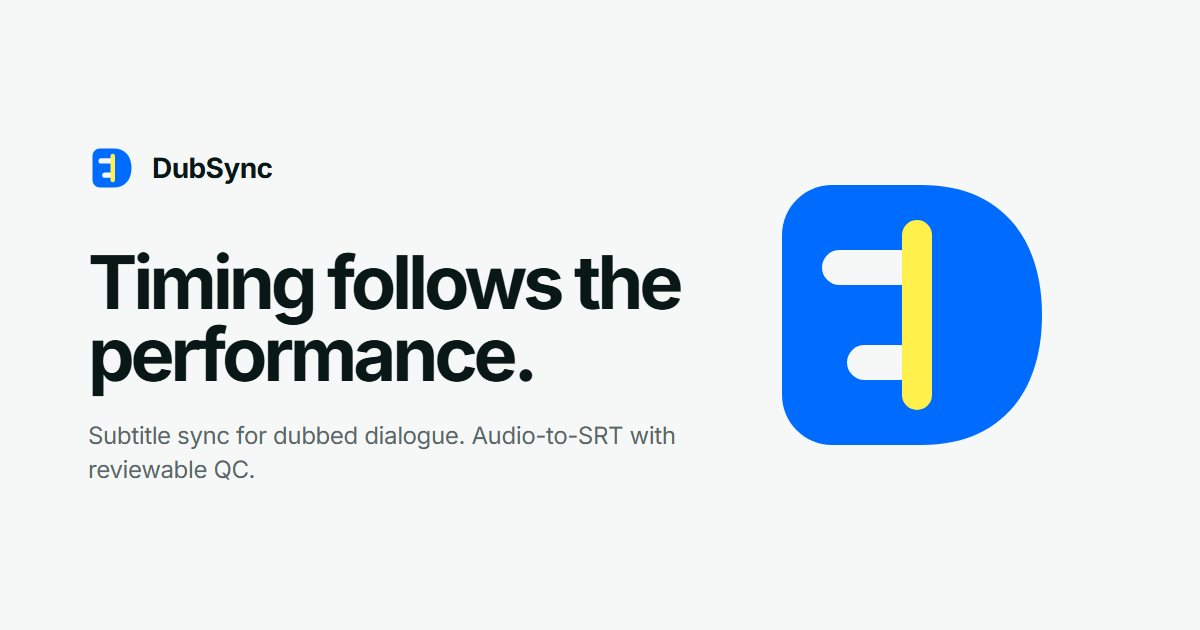
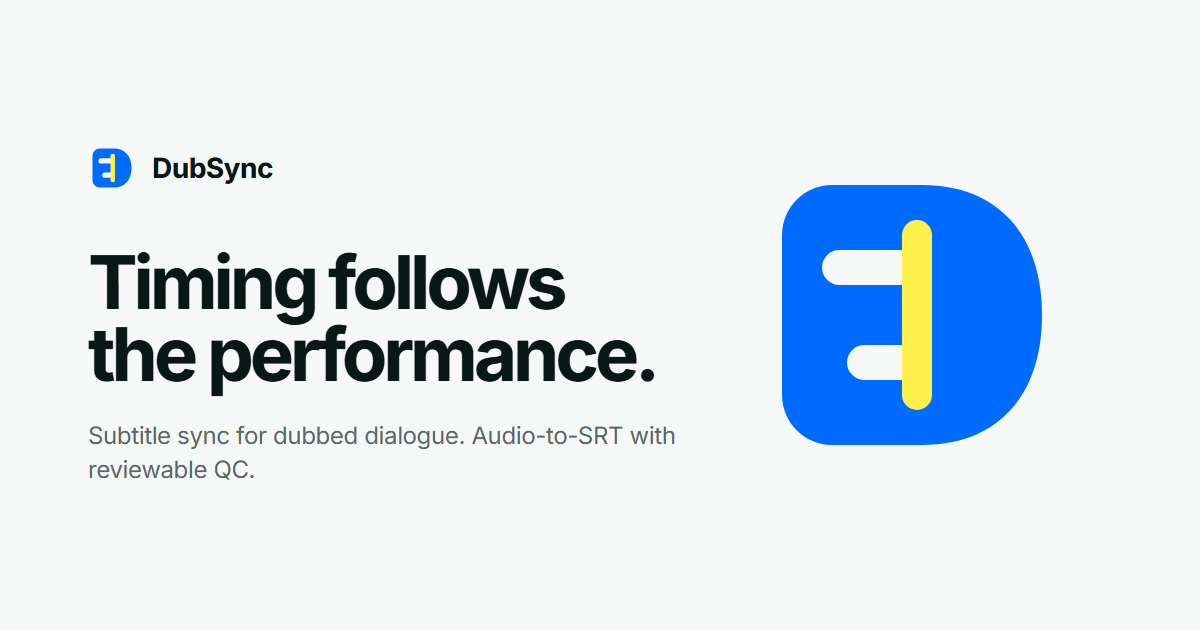
fix: harden crawler and installed brand surfaces

Changed region(s): [[0.0617, 0.3921, 0.5858, 0.6333], [0.1542, 0.2413, 0.2158, 0.3016]]

diff --git a/web/src/seo.ts b/web/src/seo.ts
@@ -1,5 +1,6 @@
 const SITE_ORIGIN = 'https://dubsync.onrender.com'
 const SOCIAL_IMAGE = `${SITE_ORIGIN}/brand/dubsync-social.png`
+const SOCIAL_IMAGE_ALT = 'DubSync. Timing follows the performance.'
 
 interface RouteMetadata {
   title: string
@@ -70,4 +71,6 @@ export function applyRouteMetadata(path: string) {
   setMeta('meta[name="twitter:title"]', { name: 'twitter:title', content: metadata.title })
   setMeta('meta[name="twitter:description"]', { name: 'twitter:description', content: metadata.description })
   setMeta('meta[name="twitter:image"]', { name: 'twitter:image', content: SOCIAL_IMAGE })
+  setMeta('meta[name="twitter:image:alt"]', { name: 'twitter:image:alt', content: SOCIAL_IMAGE_ALT })
+  if (path !== '/') document.head.querySelector('script[data-home-schema]')?.remove()
 }

diff --git a/web/index.html b/web/index.html
@@ -25,6 +25,7 @@
     <meta name="twitter:title" content="Subtitle Sync &amp; Audio-to-SRT for Dubbing | DubSync" />
     <meta name="twitter:description" content="Sync an existing SRT to dubbed dialogue audio, or generate a speaker-aware SRT from audio. Download review-ready subtitles with QC reports." />
     <meta name="twitter:image" content="https://dubsync.onrender.com/brand/dubsync-social.png" />
+    <meta name="twitter:image:alt" content="DubSync. Timing follows the performance." />
     <script type="application/ld+json" data-home-schema>
       {
         "@context": "https://schema.org",

diff --git a/src/dubsync/web/app.py b/src/dubsync/web/app.py
@@ -7,12 +7,13 @@ import shutil
 import time
 import uuid
 from contextlib import asynccontextmanager
+from html import escape
 from ipaddress import ip_address
 from pathlib import Path
 from typing import Annotated
 
 from fastapi import FastAPI, File, Form, Header, HTTPException, Request, UploadFile
-from fastapi.responses import FileResponse, JSONResponse
+from fastapi.responses import FileResponse, HTMLResponse, JSONResponse, RedirectResponse
 from fastapi.staticfiles import StaticFiles
 
 from ..srt_io import SRTParseError, parse_srt_text
@@ -42,6 +43,22 @@ AUDIO_TYPES = {
 }
 FPS_VALUES = {23.976, 24.0, 25.0, 29.97, 30.0}
 LANGUAGE_RE = re.compile(r"^(auto|[A-Za-z]{2,8}(?:-[A-Za-z]{2,8})?)$")
+PUBLIC_ROOT_FILES = frozenset({"favicon.svg", "robots.txt", "site.webmanifest", "sitemap.xml", "theme-init.js"})
+FRONTEND_ROUTE_METADATA = {
+    "terms": (
+        "Terms of Service | DubSync",
+        "Terms for using DubSync subtitle synchronization and audio-to-SRT processing.",
+    ),
+    "privacy": (
+        "Privacy Policy | DubSync",
+        "How DubSync processes, protects, transfers, and deletes subtitle job data.",
+    ),
+    "payments": (
+        "Payments and Refunds | DubSync",
+        "Manual billing, tax handling, cancellations, reruns, and refund eligibility for DubSync jobs.",
+    ),
+}
+SITE_ORIGIN = "https://dubsync.onrender.com"
 
 
 def create_app(
@@ -233,22 +250,62 @@ def create_app(
 def _mount_frontend(app: FastAPI, static_dir: Path) -> None:
     index = static_dir / "index.html"
     assets = static_dir / "assets"
-    frontend_routes = {"", "terms", "privacy", "payments"}
+    brand = static_dir / "brand"
     if assets.exists():
         app.mount("/assets", StaticFiles(directory=assets), name="assets")
+    if brand.exists():
+        app.mount("/brand", StaticFiles(directory=brand), name="brand")
 
     @app.get("/{full_path:path}", include_in_schema=False)
     def frontend(full_path: str):
-        if full_path.startswith("api/"):
+        if full_path == "api" or full_path.startswith("api/"):
             raise HTTPException(status_code=404, detail="Not found.")
-        if full_path in frontend_routes and index.exists():
+        if full_path.endswith("/") and full_path[:-1] in FRONTEND_ROUTE_METADATA:
+            return RedirectResponse(url=f"/{full_path[:-1]}", status_code=308)
+        if full_path == "" and index.exists():
             return FileResponse(index, media_type="text/html")
+        if full_path in FRONTEND_ROUTE_METADATA and index.exists():
+            return HTMLResponse(
+                _frontend_document(index, full_path),
+                headers={"X-Robots-Tag": "noindex, follow"},
+            )
         requested_file = static_dir / full_path
-        if requested_file.is_file() and _inside(requested_file, static_dir):
+        if full_path in PUBLIC_ROOT_FILES and requested_file.is_file():
             return FileResponse(requested_file)
         if not index.exists():
             return JSONResponse({"service": "dubsync", "status": "frontend_not_built"}, status_code=503)
         raise HTTPException(status_code=404, detail="Page not found.")
+
+
+def _frontend_document(index: Path, route: str) -> str:
+    title, description = FRONTEND_ROUTE_METADATA[route]
+    canonical = f"{SITE_ORIGIN}/{route}"
+    document = index.read_text(encoding="utf-8")
+    replacements = (
+        (r'(<meta name="description" content=")[^"]*(" />)', description),
+        (r'(<meta name="robots" content=")[^"]*(" />)', "noindex, follow"),
+        (r'(<link rel="canonical" href=")[^"]*(" />)', canonical),
+        (r'(<meta property="og:title" content=")[^"]*(" />)', title),
+        (r'(<meta property="og:description" content=")[^"]*(" />)', description),
+        (r'(<meta property="og:url" content=")[^"]*(" />)', canonical),
+        (r'(<meta name="twitter:title" content=")[^"]*(" />)', title),
+        (r'(<meta name="twitter:description" content=")[^"]*(" />)', description),
+    )
+    for pattern, value in replacements:
+        document = re.sub(
+            pattern,
+            lambda match, content=escape(value, quote=True): f"{match.group(1)}{content}{match.group(2)}",
+            document,
+            count=1,
+        )
+    document = re.sub(r"<title>.*?</title>", f"<title>{escape(title)}</title>", document, count=1, flags=re.DOTALL)
+    return re.sub(
+        r'\s*<script type="application/ld\+json" data-home-schema>.*?</script>',
+        "",
+        document,
+        count=1,
+        flags=re.DOTALL,
+    )
 
 
 def _authorized_job(service: JobService, job_id: str, authorization: str | None) -> JobRecord: